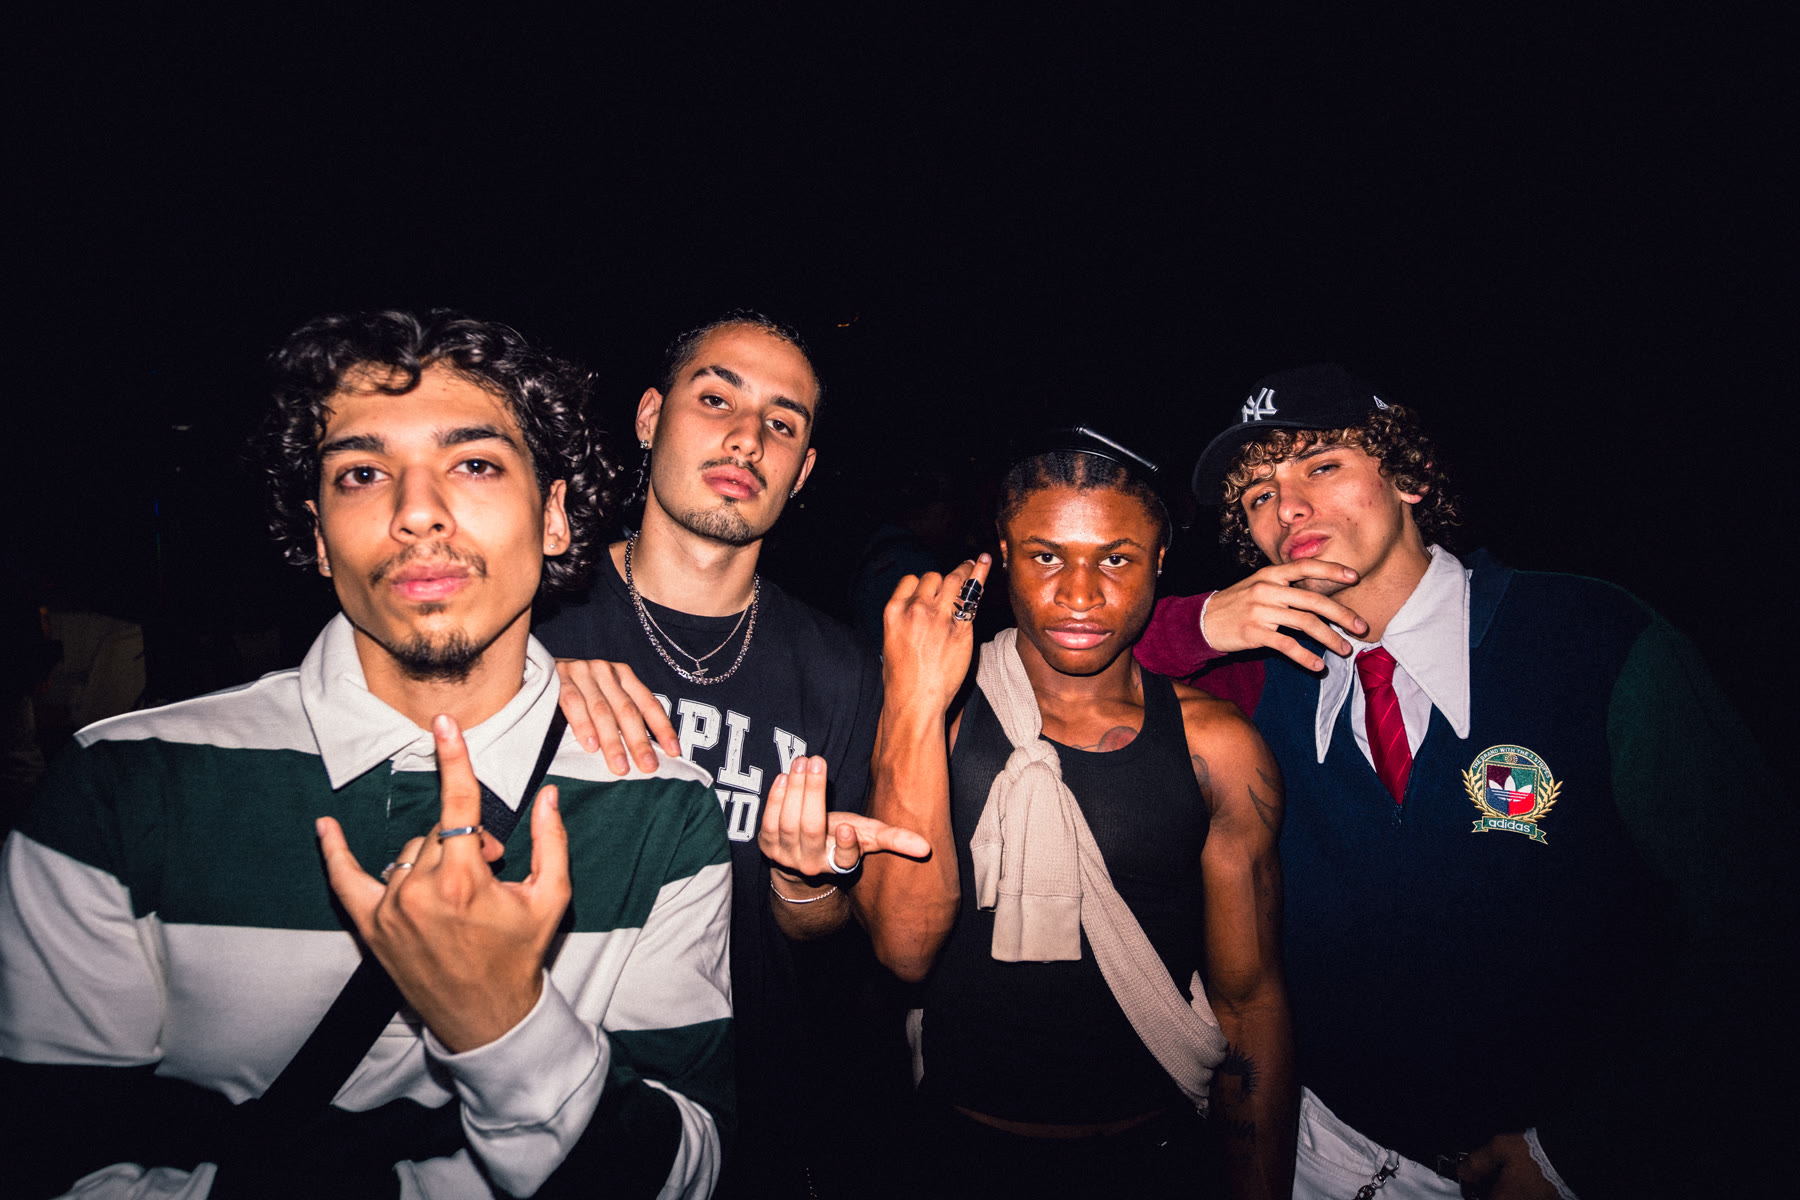
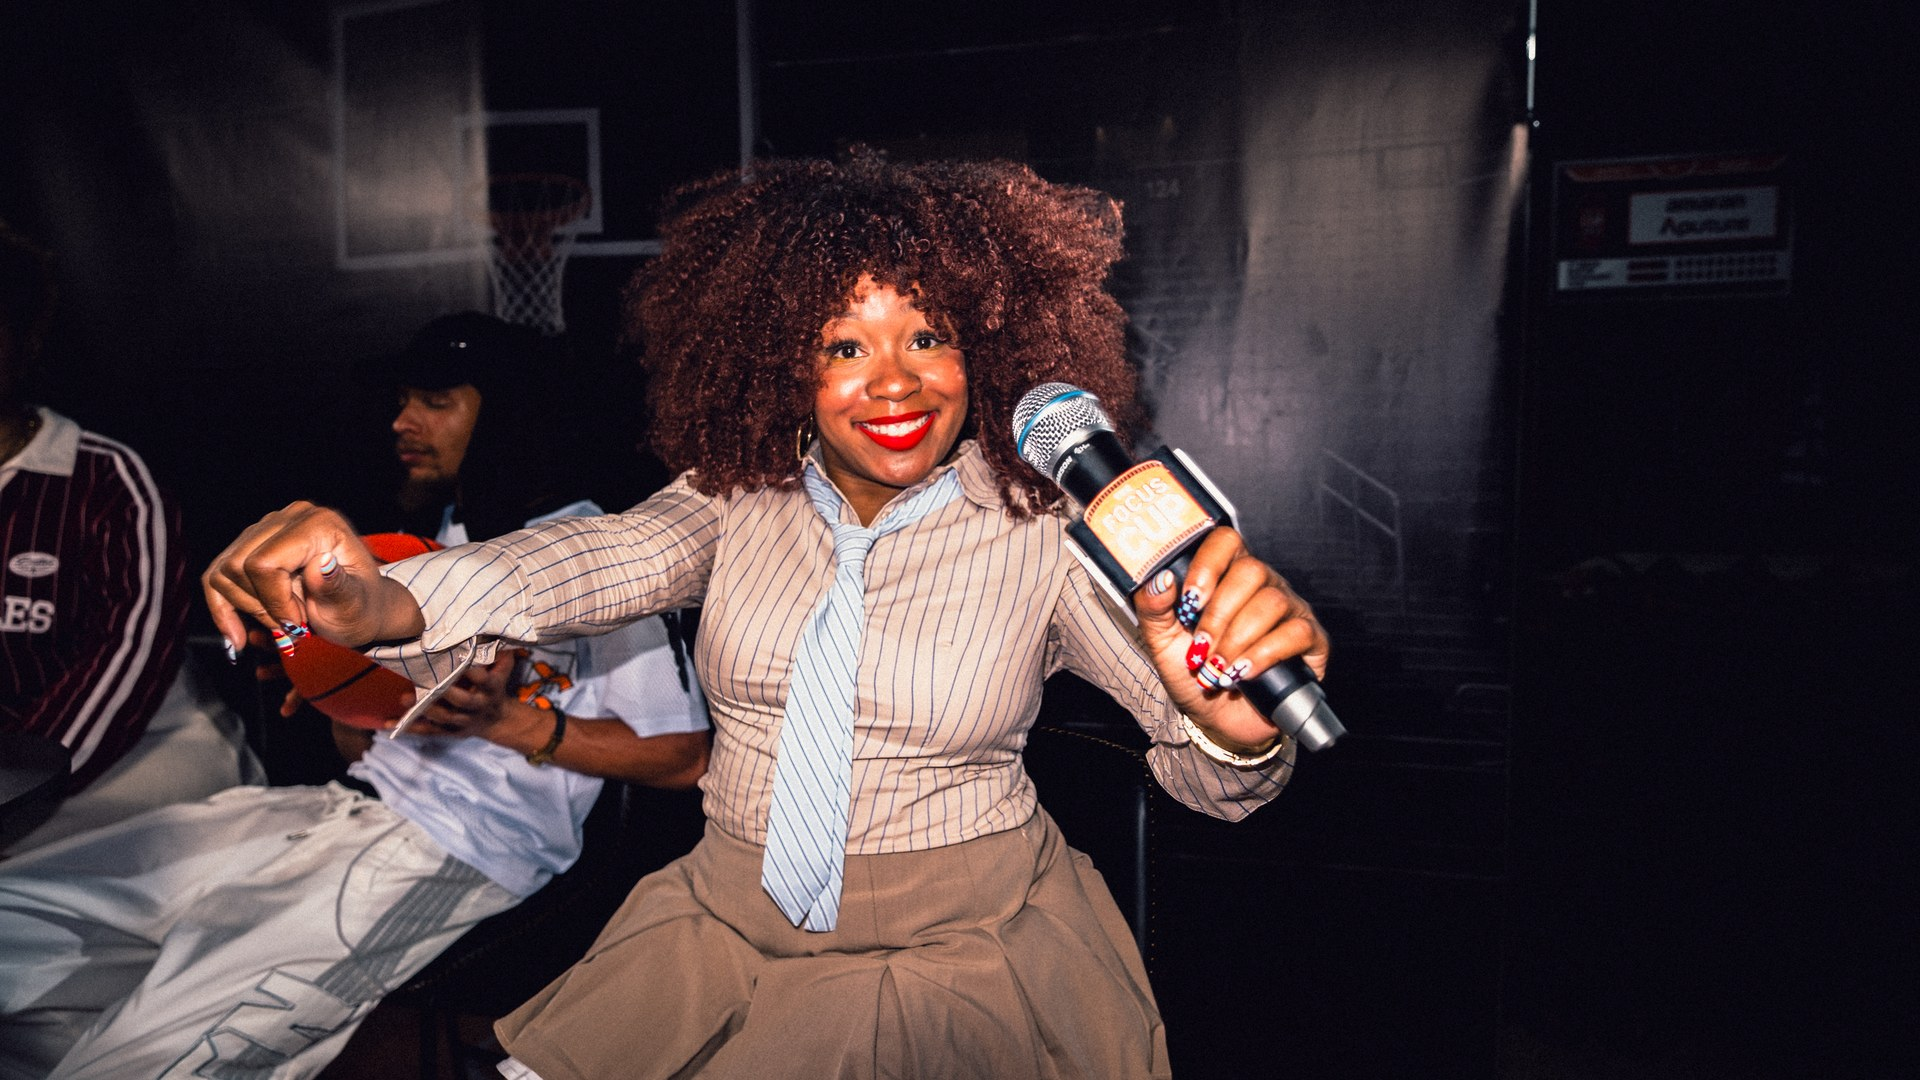
Recurate portfolio from approved event folders

diff --git a/index.html b/index.html
@@ -7,12 +7,12 @@
   <meta name="description" content="After Hours Photo creates chic editorial photography for commercial events, private celebrations, launches and galas.">
   <meta property="og:title" content="After Hours Photo — Editorial Event Photography">
   <meta property="og:description" content="Commercial polish. Private energy. Event photography with an editorial point of view.">
-  <meta property="og:image" content="https://www.afterhoursphoto.com/assets/images/commercial-03.jpg">
+  <meta property="og:image" content="https://www.afterhoursphoto.com/assets/images/hero-taylor-rooftop.jpg">
   <meta property="og:type" content="website">
   <meta property="og:url" content="https://www.afterhoursphoto.com">
   <title>After Hours Photo — Editorial Event Photography</title>
   <link rel="icon" href="favicon.svg" type="image/svg+xml">
-  <link rel="preload" href="assets/images/commercial-03.jpg" as="image">
+  <link rel="preload" href="assets/images/hero-taylor-rooftop.jpg" as="image">
   <link rel="stylesheet" href="styles.css">
 </head>
 <body>
@@ -27,7 +27,7 @@
 
   <main id="top">
     <section class="hero" aria-labelledby="hero-title">
-      <img class="hero-video" src="assets/images/commercial-03.jpg" alt="Guests together at a branded event" width="2400" height="1350">
+      <img class="hero-video" src="assets/images/hero-taylor-rooftop.jpg" alt="Guests in conversation at a rooftop brand event" width="2400" height="1350">
       <div class="hero-wash"></div>
       <div class="hero-copy">
         <p class="eyebrow">New York / Available everywhere</p>
@@ -60,12 +60,12 @@
           </video>
           <figcaption>Peak Design × Fujifilm / Event film</figcaption>
         </figure>
-        <figure class="reveal"><img loading="lazy" src="assets/images/commercial-peak-01.jpg" alt="Guests sharing a warm moment at a Peak Design and Fujifilm event" width="1800" height="1200"></figure>
-        <figure class="reveal"><img loading="lazy" src="assets/images/commercial-peak-02.jpg" alt="Smiling guests gathered at a Peak Design and Fujifilm event" width="1800" height="1200"></figure>
-        <figure class="reveal"><img loading="lazy" src="assets/images/commercial-peak-03.jpg" alt="Guest connecting with the photography community at a brand event" width="1800" height="1200"></figure>
-        <figure class="reveal"><img loading="lazy" src="assets/images/commercial-peak-04.jpg" alt="Guests reviewing a camera together during an event walk" width="1800" height="1200"></figure>
-        <figure class="reveal"><img loading="lazy" src="assets/images/commercial-peak-05.jpg" alt="Guests in conversation inside a busy branded event" width="1800" height="1200"></figure>
-        <figure class="reveal"><img loading="lazy" src="assets/images/commercial-peak-06.jpg" alt="Photography community gathered inside a Peak Design event" width="1800" height="1200"></figure>
+        <figure class="reveal"><img loading="lazy" src="assets/images/commercial-peak-candid-01.jpg" alt="Guest laughing during a Peak Design and Fujifilm community event" width="1440" height="1620"><figcaption>Peak Design × Fujifilm</figcaption></figure>
+        <figure class="reveal"><img loading="lazy" src="assets/images/commercial-sony-activation-01.jpg" alt="Host laughing with a microphone during the Sony Focus event" width="1440" height="1620"><figcaption>Sony Focus</figcaption></figure>
+        <figure class="reveal"><img loading="lazy" src="assets/images/commercial-peak-candid-02.jpg" alt="Guest sharing a candid laugh inside a photography community event" width="1440" height="1620"></figure>
+        <figure class="reveal"><img loading="lazy" src="assets/images/commercial-sony-activation-02.jpg" alt="Guest spinning a basketball during an interactive brand activation" width="1440" height="1620"></figure>
+        <figure class="reveal"><img loading="lazy" src="assets/images/commercial-sony-activation-03.jpg" alt="Guest taking part in a tennis-inspired event activation" width="1440" height="1620"></figure>
+        <figure class="reveal"><img loading="lazy" src="assets/images/commercial-sony-camera-01.jpg" alt="Guests reviewing photographs together during a camera brand event" width="1440" height="1620"></figure>
       </div>
     </section>
 
@@ -105,12 +105,12 @@
           </video>
           <figcaption>Sony Focus / Event film</figcaption>
         </figure>
-        <figure class="reveal"><img loading="lazy" src="assets/images/culture-taylor-01.jpg" alt="Guests embracing during a private celebration" width="1800" height="1200"><figcaption>Taylor Wos</figcaption></figure>
-        <figure class="reveal"><img loading="lazy" src="assets/images/culture-sony-01.jpg" alt="Guest spinning a basketball during the Sony Focus event" width="1800" height="1200"><figcaption>Sony Focus</figcaption></figure>
-        <figure class="reveal"><img loading="lazy" src="assets/images/culture-sony-02.jpg" alt="Guests in vivid fashion at the Sony Focus event" width="1800" height="1200"></figure>
-        <figure class="reveal"><img loading="lazy" src="assets/images/culture-taylor-02.jpg" alt="Friends together at an evening celebration" width="1800" height="1200"></figure>
-        <figure class="reveal"><img loading="lazy" src="assets/images/culture-sony-03.jpg" alt="Guest laughing during the Sony Focus event" width="1800" height="1200"></figure>
-        <figure class="reveal"><img loading="lazy" src="assets/images/culture-sony-04.jpg" alt="Tennis-inspired activation at the Sony Focus event" width="1800" height="1200"></figure>
+        <figure class="reveal"><img loading="lazy" src="assets/images/culture-taylor-embrace.jpg" alt="Guests embracing during a private jewelry event" width="1440" height="1620"><figcaption>Taylor Wos</figcaption></figure>
+        <figure class="reveal"><img loading="lazy" src="assets/images/culture-orphan-dance-01.jpg" alt="Guests dancing at a formal gala" width="1440" height="1620"><figcaption>Orphan Starfish Foundation</figcaption></figure>
+        <figure class="reveal"><img loading="lazy" src="assets/images/culture-tony-candid-01.jpg" alt="Guest laughing in conversation during a private gathering" width="1440" height="1620"><figcaption>Private Event</figcaption></figure>
+        <figure class="reveal"><img loading="lazy" src="assets/images/culture-taylor-candid-01.jpg" alt="Guest sharing a drink and a laugh at an evening event" width="1440" height="1620"></figure>
+        <figure class="reveal"><img loading="lazy" src="assets/images/culture-orphan-dance-02.jpg" alt="Guest laughing on the dance floor at a gala" width="1440" height="1620"></figure>
+        <figure class="reveal"><img loading="lazy" src="assets/images/culture-tony-embrace.jpg" alt="Friends greeting one another with a warm embrace" width="1440" height="1620"></figure>
       </div>
     </section>
 
